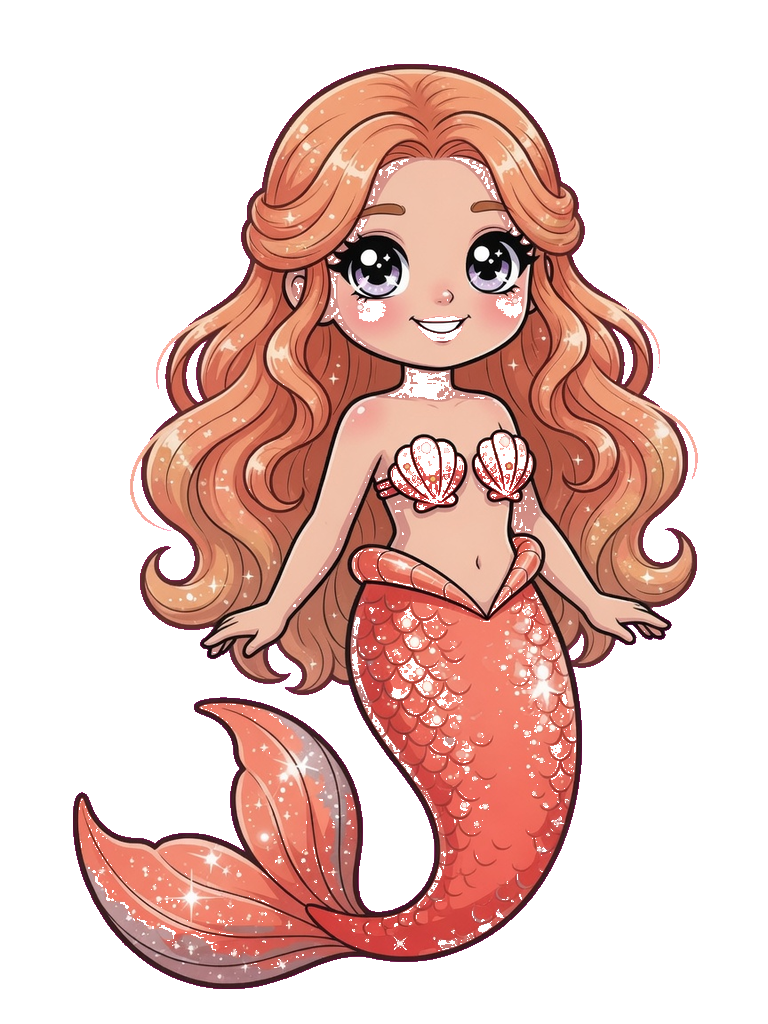
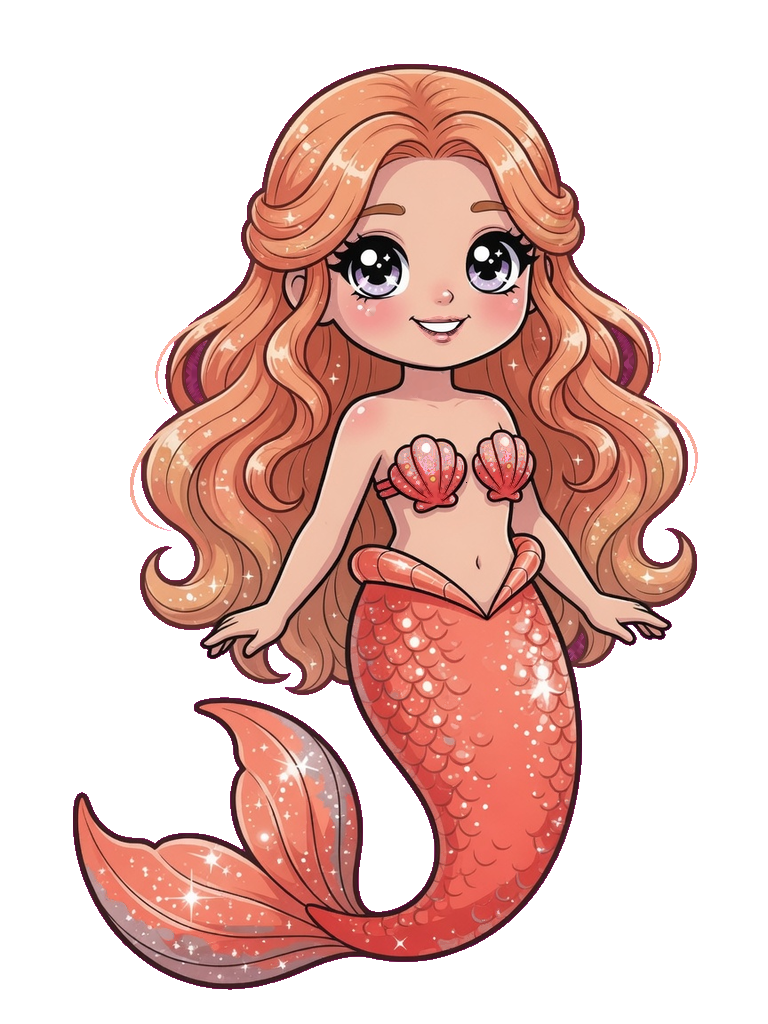
Fix worn accessories and look transparency holes (v1.0.009)
Jewelry is cropped to shallow front arcs so necklaces no longer show the
back of the chain on the neck. Flower crown loses its halo strap; starfish
loses the clip bar. Poses get headY/neckY pins; crowns seat slightly lower.

Fill chroma-key holes in all look PNGs (Pink was worst) so the scene no
longer shows through hair, body, and tail. Bump GAME_VERSION and SW cache.

diff --git a/js/assets.js b/js/assets.js
@@ -84,19 +84,32 @@ const LOOK_CONTENT = { x: 73 / 768, y: 65 / 1024, w: 625 / 768, h: 925 / 1024 };
  *   'center' — art centered in the box    (handheld props)
  * Tuned visually against the gold-teal reference character (see
  * docs/ARCHITECTURE.md → "Accessory alignment").
+ *
+ * Jewelry art is authored as shallow front-facing arcs (not full U-loops) so
+ * only the worn front of the necklace shows. The jewelry box is wider than
+ * tall to match that aspect.
  */
 const ACCESSORY_LAYOUT = {
-  crown:   { x: 0.30,  y: -0.05, w: 0.40, h: 0.17, anchor: 'bottom' },
-  jewelry: { x: 0.365, y: 0.34,  w: 0.27, h: 0.13, anchor: 'top' },
+  // Slightly nested into the hairline so the band doesn't float above the head.
+  crown:   { x: 0.30,  y: -0.03, w: 0.38, h: 0.16, anchor: 'bottom' },
+  // Wide shallow box for front-arc necklaces (collarbone, not ear-to-ear loop).
+  jewelry: { x: 0.365, y: 0.355, w: 0.30, h: 0.11, anchor: 'top' },
   // Held item — seated by her lowered right hand (viewer's right).
   prop:    { x: 0.60,  y: 0.52,  w: 0.34, h: 0.34, anchor: 'center' },
 };
 
-/** Resolve a look's head/neck axis, falling back to the default. */
+/**
+ * Resolve a look's head/neck axis, falling back to the default.
+ * headX/neckX = fraction of full art width.
+ * headY/neckY = optional fraction of full art height (crown rest line / jewelry top).
+ * When omitted, ACCESSORY_LAYOUT content-box fractions are used (gold-teal frame).
+ */
 function lookCenters(lookItem) {
   return {
     headX: (lookItem && lookItem.headX != null) ? lookItem.headX : LOOK_CENTER_DEFAULT.headX,
     neckX: (lookItem && lookItem.neckX != null) ? lookItem.neckX : LOOK_CENTER_DEFAULT.neckX,
+    headY: (lookItem && lookItem.headY != null) ? lookItem.headY : null,
+    neckY: (lookItem && lookItem.neckY != null) ? lookItem.neckY : null,
   };
 }
 
@@ -107,6 +120,10 @@ function lookCenters(lookItem) {
  * fractions). Crown & gems are centered horizontally on the character's true
  * head / neck axis (`centers`, full-art-width fractions) instead of the box
  * center, so hair/tail can't drag them sideways.
+ *
+ * Poses whose framing differs from gold-teal may set `centers.headY` /
+ * `centers.neckY` (fractions of full art height) to pin the crown rest line
+ * and jewelry top to the real head/neck.
  * @returns {{ x: number, y: number, w: number, h: number, anchor: string }}
  */
 function accessoryRect(key, lookX, lookY, lookW, lookH, centers) {
@@ -128,7 +145,17 @@ function accessoryRect(key, lookX, lookY, lookW, lookH, centers) {
     x = cx + cw * layout.x; // prop (held at the hand) stays box-relative
   }
 
-  return { x, y: cy + ch * layout.y, w, h, anchor: layout.anchor || 'center' };
+  let y = cy + ch * layout.y;
+  // Optional per-look vertical pins (full-art-height fractions).
+  if (key === 'crown' && centers && centers.headY != null) {
+    // Bottom of the crown box rests on the head/hairline.
+    y = lookY + lookH * centers.headY - h;
+  } else if (key === 'jewelry' && centers && centers.neckY != null) {
+    // Top of the jewelry box sits at the neck / collarbone.
+    y = lookY + lookH * centers.neckY;
+  }
+
+  return { x, y, w, h, anchor: layout.anchor || 'center' };
 }
 
 /** Vertical offset for contain-fit art seated in an accessory box by anchor. */

diff --git a/js/config.js b/js/config.js
@@ -1,7 +1,7 @@
 'use strict';
 
 // Mermaid Dress-Up — Keep CACHE in sw.js in sync: 'dress-up-mermaid-' + GAME_VERSION
-const GAME_VERSION = '1.0.007';
+const GAME_VERSION = '1.0.009';
 const GAME_VERSION_LABEL = 'v' + GAME_VERSION;
 const GAME_NAME = 'Mermaid Dress-Up';
 
@@ -47,6 +47,11 @@ const BACKGROUNDS = [
  * bounding-box center is biased sideways by billowing hair / a curling tail and
  * is NOT where the accessory belongs. Measured per look with
  * scripts/measure-centerline.mjs; see docs/ARCHITECTURE.md → "Accessory alignment".
+ *
+ * headY / neckY (optional) = fraction of full art height for the crown rest
+ * line (bottom of crown box) and jewelry top. Only needed when a look's framing
+ * differs from the gold-teal content box (pose-*). Color looks omit these and
+ * use ACCESSORY_LAYOUT content-box fractions.
  */
 const LOOKS = [
   // Color looks share the same base linework (identical bounds): head axis
@@ -61,10 +66,13 @@ const LOOKS = [
   { id: 'peach-coral',    label: 'Peach',    src: 'art/layers/look/peach-coral.png',    swatch: '#FFAB91', headX: 0.537, neckX: 0.552 },
   { id: 'deep-emerald',   label: 'Emerald',  src: 'art/layers/look/deep-emerald.png',   swatch: '#66BB6A', headX: 0.537, neckX: 0.552 },
   { id: 'lavender-pearl', label: 'Lavender', src: 'art/layers/look/lavender-pearl.png', swatch: '#B39DDB', headX: 0.537, neckX: 0.552 },
-  // Poses are separate illustrations with their own turned bodies.
-  { id: 'pose-wave',      label: 'Wave',     src: 'art/layers/look/pose-wave.png',      swatch: '#81D4FA', headX: 0.465, neckX: 0.482 },
-  { id: 'pose-side',      label: 'Side',     src: 'art/layers/look/pose-side.png',      swatch: '#CE93D8', headX: 0.471, neckX: 0.451 },
-  { id: 'pose-swim',      label: 'Swim',     src: 'art/layers/look/pose-swim.png',      swatch: '#4DB6AC', headX: 0.473, neckX: 0.500 },
+  // Poses: separate framing — pin crown rest / jewelry top with headY / neckY.
+  { id: 'pose-wave', label: 'Wave', src: 'art/layers/look/pose-wave.png', swatch: '#81D4FA',
+    headX: 0.465, neckX: 0.482, headY: 0.20, neckY: 0.385 },
+  { id: 'pose-side', label: 'Side', src: 'art/layers/look/pose-side.png', swatch: '#CE93D8',
+    headX: 0.471, neckX: 0.48, headY: 0.175, neckY: 0.30 },
+  { id: 'pose-swim', label: 'Swim', src: 'art/layers/look/pose-swim.png', swatch: '#4DB6AC',
+    headX: 0.473, neckX: 0.48, headY: 0.25, neckY: 0.355 },
 ];
 
 /** Fallback head/neck axis for a look that has no measured center. */
@@ -81,7 +89,7 @@ const CROWNS = [
   { id: 'flower-crown', label: 'Flower',  src: 'art/layers/crown/flower-crown.png', swatch: '#F48FB1' },
 ];
 
-/** Necklaces / jewelry (none = bare) — open U-necklaces, not bracelets */
+/** Necklaces / jewelry (none = bare) — shallow front-facing arcs (worn look) */
 const JEWELRY = [
   { id: 'none',         label: 'None',     src: null, swatch: '#90A4AE' },
   { id: 'pearls',       label: 'Pearls',   src: 'art/layers/jewelry/pearls.png',       swatch: '#FFF8E1' },

diff --git a/sw.js b/sw.js
@@ -1,5 +1,5 @@
 // Mermaid Dress-Up — bump with GAME_VERSION in js/config.js
-const CACHE = 'dress-up-mermaid-1.0.007';
+const CACHE = 'dress-up-mermaid-1.0.009';
 
 const ASSETS = [
   './',

diff --git a/docs/ARCHITECTURE.md b/docs/ARCHITECTURE.md
@@ -84,14 +84,20 @@ node scripts/preview-align.mjs <look> <crown> <jewelry> <prop> [out.png]
 ```
 
 Because accessory art has different aspect ratios, always re-check the *hard*
-cases when tuning: tall crowns (`crystal`) and long pendant necklaces
+cases when tuning: tall crowns (`crystal`) and pendant necklaces
 (`shell-choker`, `gold-chain`, `gem-blue`), not just the choker/tiara. When
 re-tuning, change only the fractions/anchors in `ACCESSORY_LAYOUT` — the draw and
 hit code stay generic. Keep the `ACCESSORY_LAYOUT` copy in the script in sync.
 
-Because the fractions are relative to the gold-teal content box, poses whose art
-sits differently in the frame (`pose-*`) will align slightly less precisely; the
-common styles all share gold-teal's framing.
+**Jewelry art must be shallow front arcs**, not full U-loops. A closed or tall
+U shows the “back of the necklace” on the mermaid’s neck and reads as an overlay.
+Author/crop jewelry so only the worn front (collarbone crescent) is visible;
+ends stop at the sides of the neck, not climbing toward the ears.
+
+**Poses with different framing** set optional `headY` / `neckY` on the look
+(fractions of full art height). `accessoryRect` then pins the crown rest line
+and jewelry top to those values instead of the gold-teal content-box fractions.
+Color looks omit them and share gold-teal’s framing.
 
 ## Play-screen chrome + the item tray
 
